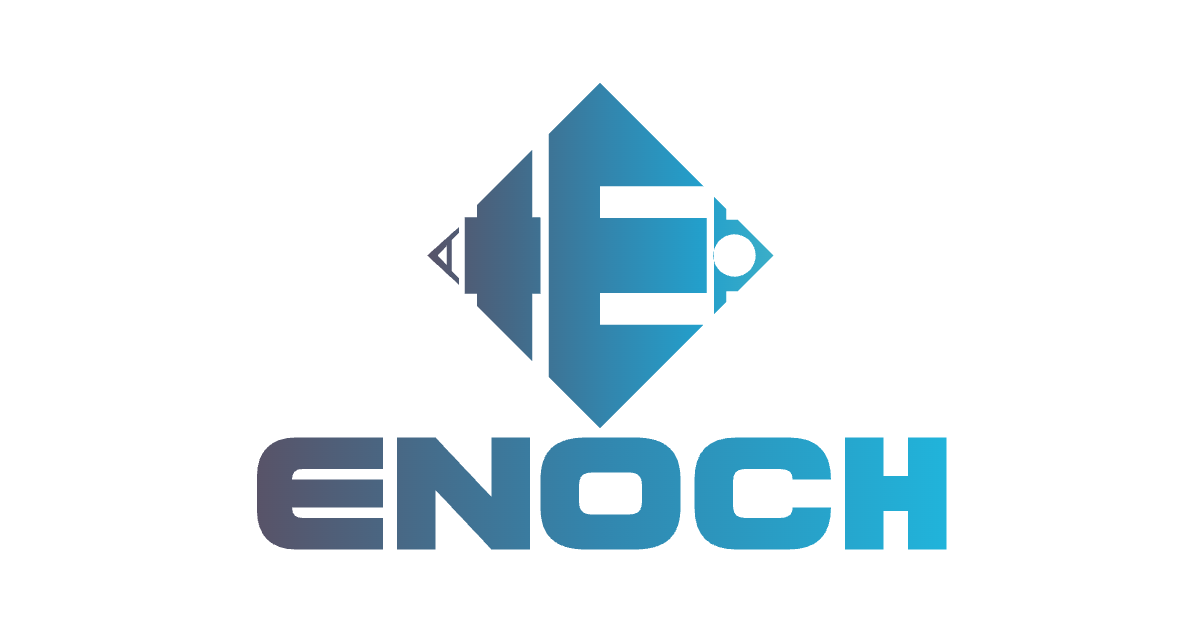
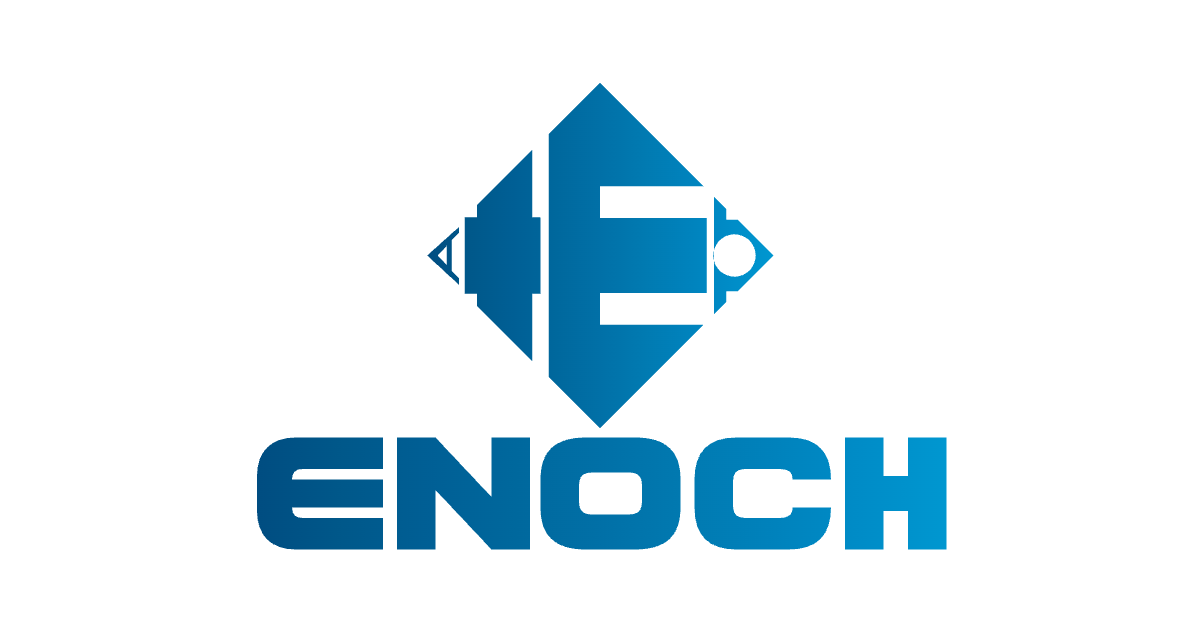
Publish approved ocean-blue ENOCH gradient

Changed region(s): [[0.2158, 0.1206, 0.8017, 0.8746]]

diff --git a/index.html b/index.html
@@ -16,14 +16,14 @@
 <meta property="og:type" content="website" />
 <meta property="og:title" content="Ningbo Enoch Global Forwarding | China to USA Freight Forwarder" />
 <meta property="og:description" content="FMC-registered NVOCC. Ocean, air, US customs clearance and door-to-door delivery from China and Southeast Asia to the USA." />
-<meta property="og:image" content="https://www.enochlogistics.com/img/enoch-share.png?v=original-stacked" />
+<meta property="og:image" content="https://www.enochlogistics.com/img/enoch-share.png?v=original-banner-blue" />
 <meta property="og:url" content="https://www.enochlogistics.com/" />
 <meta property="og:site_name" content="Ningbo Enoch Global Forwarding" />
 <meta name="twitter:card" content="summary_large_image" />
 
 <!-- ===== Favicon (uses existing logo; swap for a real .ico/.png favicon later) ===== -->
-<link rel="icon" type="image/svg+xml" href="img/enoch-icon.svg?v=original-stacked" />
-<link rel="apple-touch-icon" href="img/enoch-touch.png?v=original-stacked" />
+<link rel="icon" type="image/svg+xml" href="img/enoch-icon.svg?v=original-banner-blue" />
+<link rel="apple-touch-icon" href="img/enoch-touch.png?v=original-banner-blue" />
 
 <!-- ===== Structured data: LocalBusiness (helps Google show address/phone) ===== -->
 <script type="application/ld+json">
@@ -31,7 +31,7 @@
   "@context": "https://schema.org",
   "@type": "LocalBusiness",
   "name": "Ningbo Enoch Global Forwarding Co., Ltd",
-  "image": "https://www.enochlogistics.com/img/enoch-share.png?v=original-stacked",
+  "image": "https://www.enochlogistics.com/img/enoch-share.png?v=original-banner-blue",
   "url": "https://www.enochlogistics.com/",
   "telephone": "+86-574-87343930",
   "email": "forrest.zhang@enochlogistics.com",
@@ -299,7 +299,7 @@
   <div class="container">
     <nav>
       <a href="#" class="logo">
-        <img src="img/enoch-logo.svg?v=original-stacked" alt="" width="200" height="138" class="logo-img" />
+        <img src="img/enoch-logo.svg?v=original-banner-blue" alt="" width="200" height="138" class="logo-img" />
         <div class="logo-divider"></div>
         <div class="logo-sub"><span data-i18n="brand.name">Ningbo Enoch Global</span>
           <small data-i18n="brand.sub">FORWARDING CO., LTD</small>
@@ -615,7 +615,7 @@
   <div class="container">
     <div class="foot-top">
       <div class="foot-brand">
-        <span class="logo-chip"><img src="img/enoch-logo.svg?v=original-stacked" alt="Enoch Global Forwarding" width="200" height="138" /></span>
+        <span class="logo-chip"><img src="img/enoch-logo.svg?v=original-banner-blue" alt="Enoch Global Forwarding" width="200" height="138" /></span>
         <p data-i18n="foot.about">A Ningbo-based, FMC-registered NVOCC focused on ocean, air and door-to-door logistics from China and Southeast Asia to the USA.</p>
       </div>
       <div>
